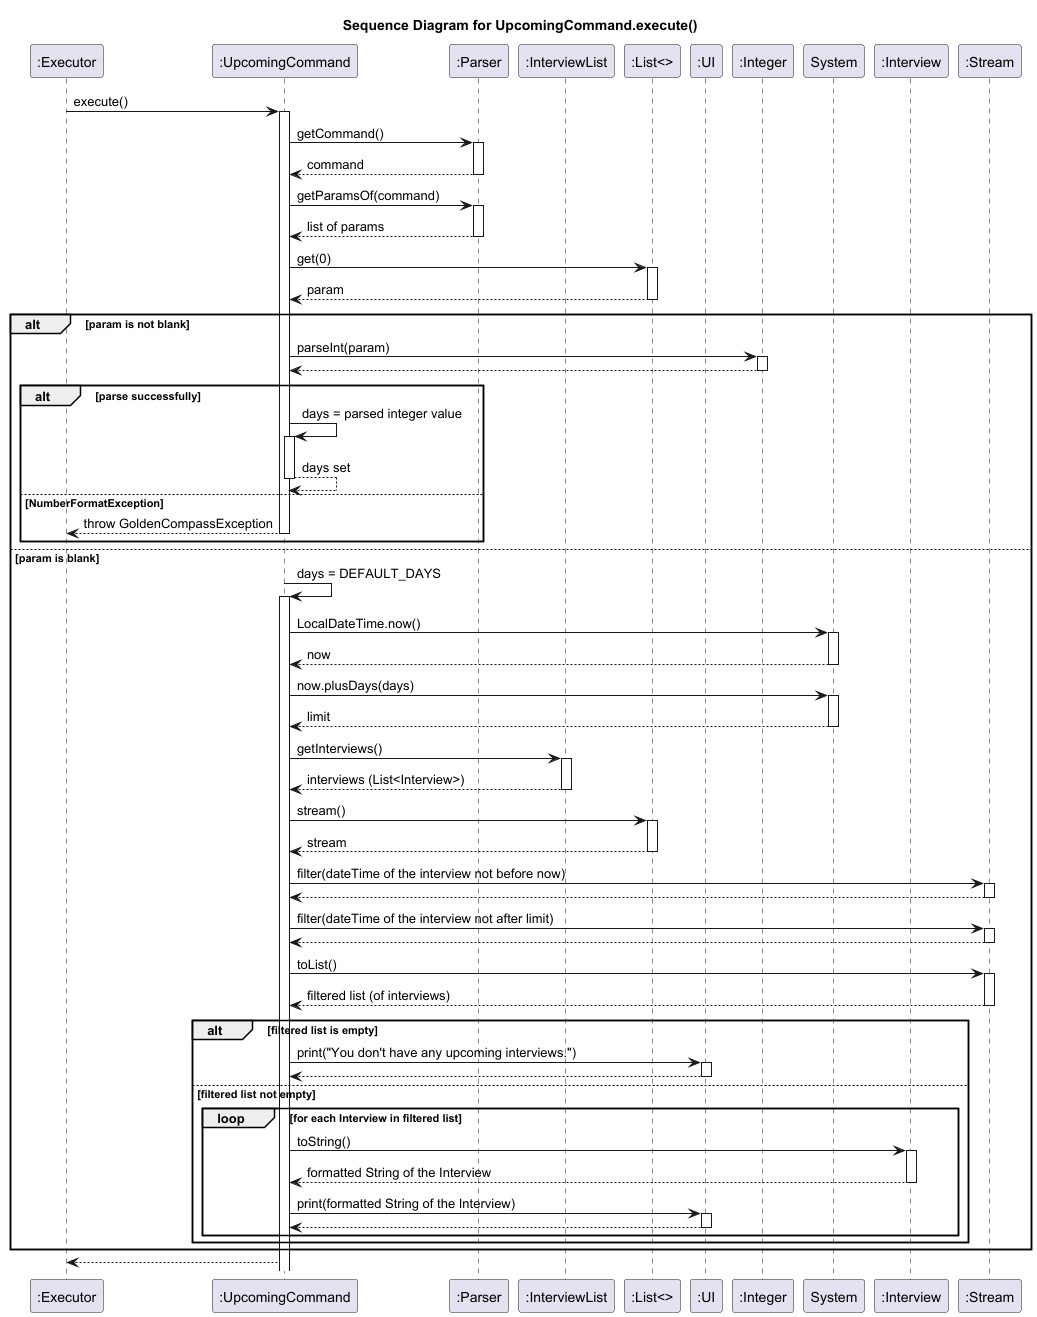
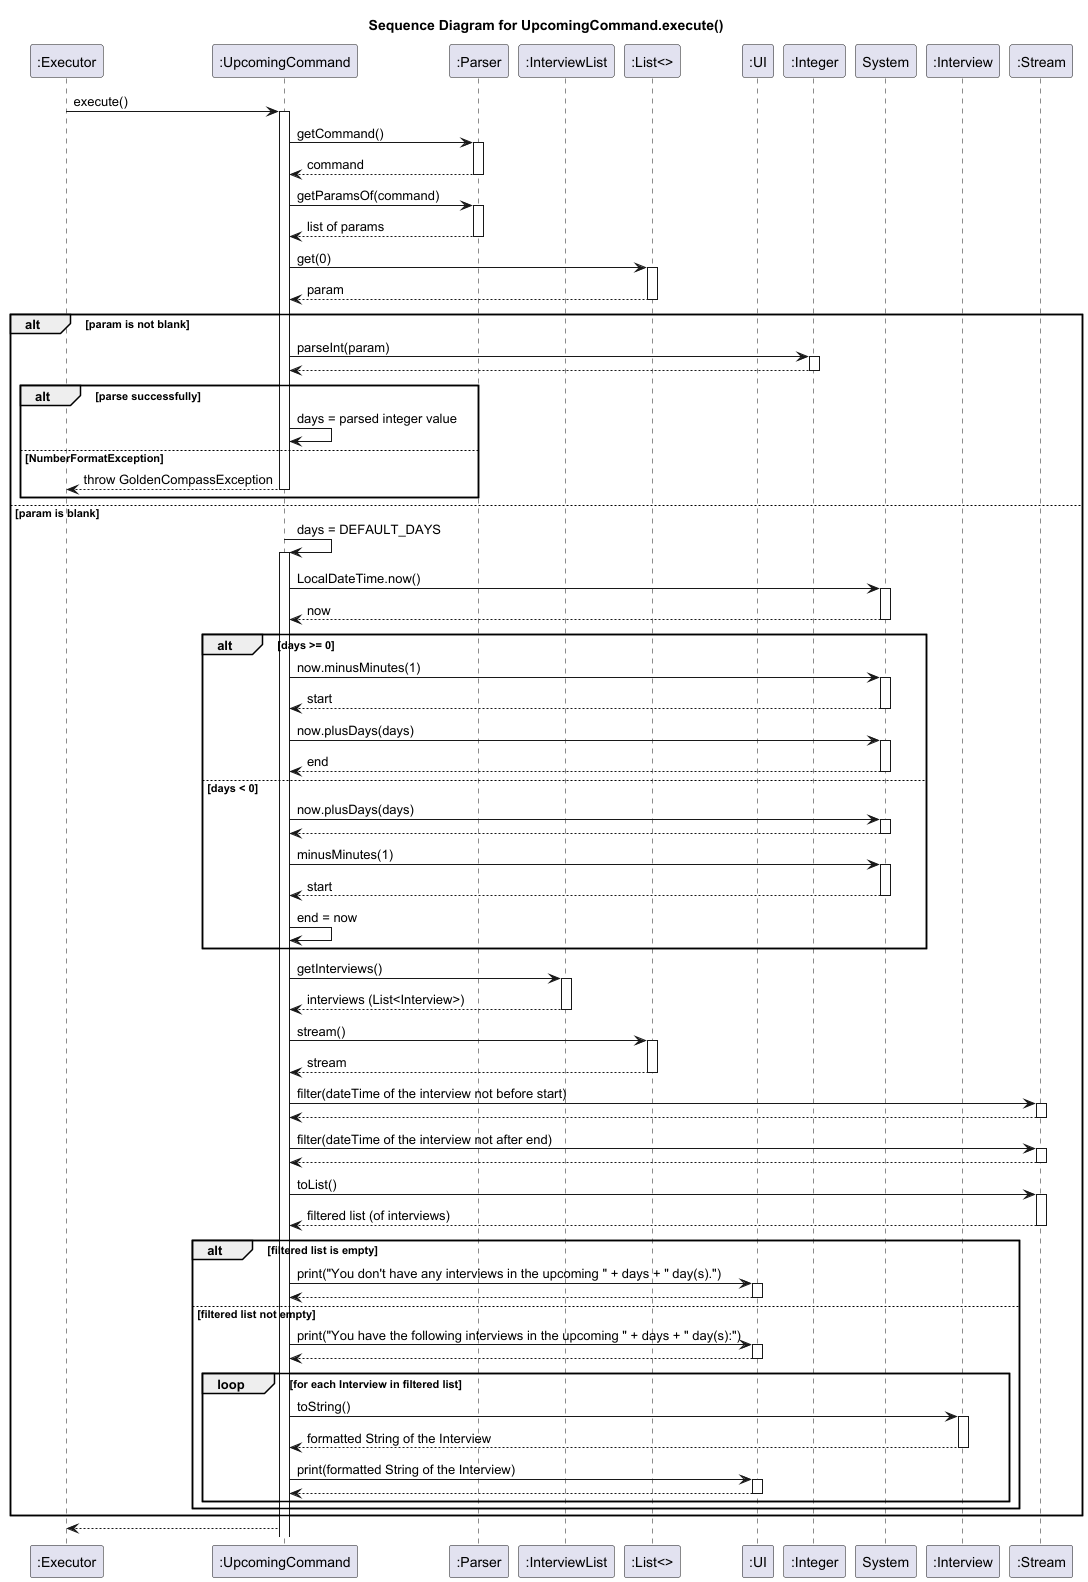
Fix DG

diff --git a/docs/DeveloperGuide.md b/docs/DeveloperGuide.md
@@ -950,10 +950,18 @@ The user can list upcoming interviews within a specific number of days.
 
 **Command format:** `upcoming [N]`, where `N` is an integer.
 
-This lists all upcoming interviews within the following `N` days. If the optional parameter `[N]` is omitted, a default 
+This lists all upcoming interviews within the following `N` days if `N` is positive and lists interviews in the past 
+`|N|` days if `N` is negative. If the optional parameter `[N]` is omitted, a default 
 of `5` days will be used. That is, `upcoming` will list all upcoming interviews within the subsequent `5` days.
 
-Note: negative `N` is allowed but will always output `You don't have any upcoming interviews.`
+- The integer `N` always specifies a closed time interval `[lower bound, upper bound]`. The command actually filters
+for the interval `[lower bound - 1 minute, upper bound]`. This is because if the system time the user sees on their 
+laptop is `yyyy-MM-dd HH:mm`, then the actual time actually passes `yyyy-MM-dd HH:mm` by a few seconds or at least
+microseconds. The system dateTime read is the exact actual time that contains the seconds and microseconds. Therefore, 
+in order for the time interval to be inclusive of time boundaries from the user's point of view, the `lower bound`, which
+is, for positive `N` the actual exact system time and for negative `N` the actual exact system time minus `|N|` days, 
+needs to be 1 minute earlier.
+
 #### Implementation
 
 The feature is implemented in `UpcomingCommand`, the relationship of which to other classes is shown in the following class diagram 
